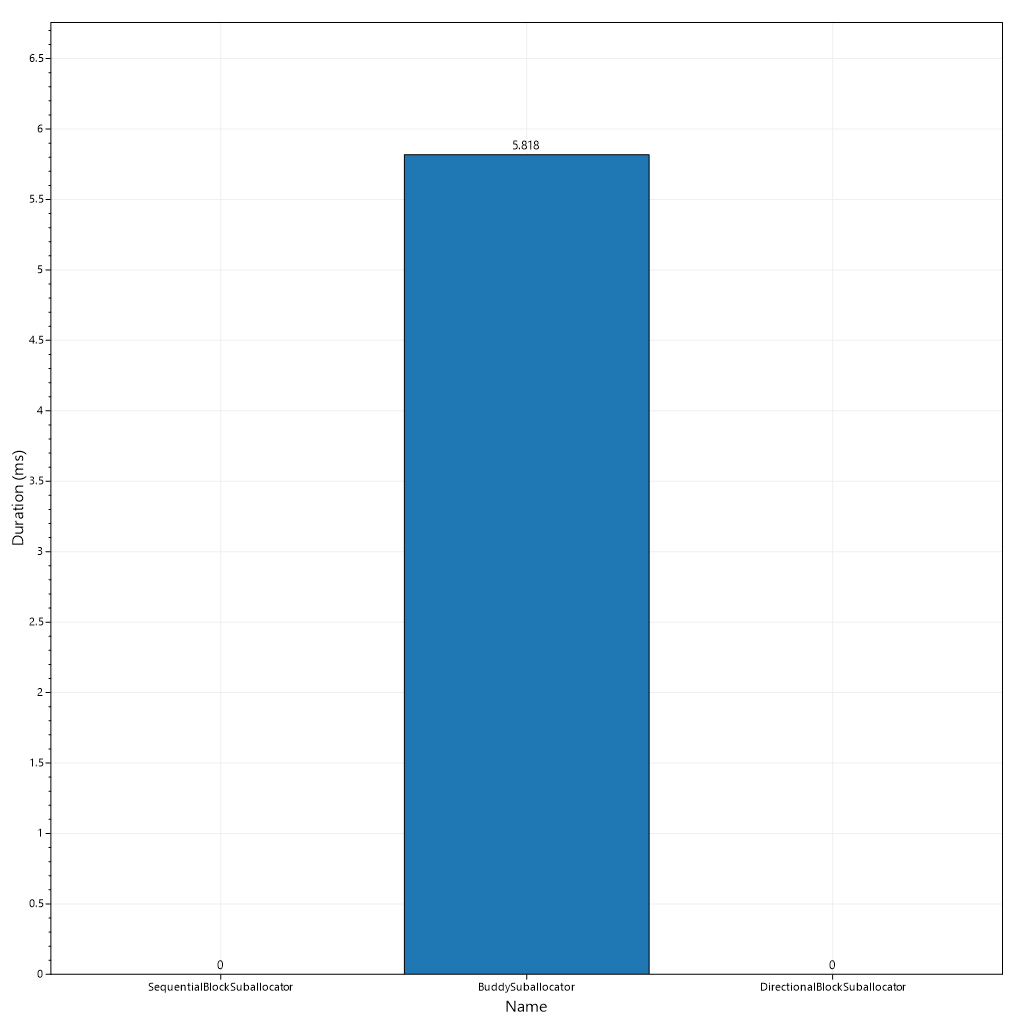
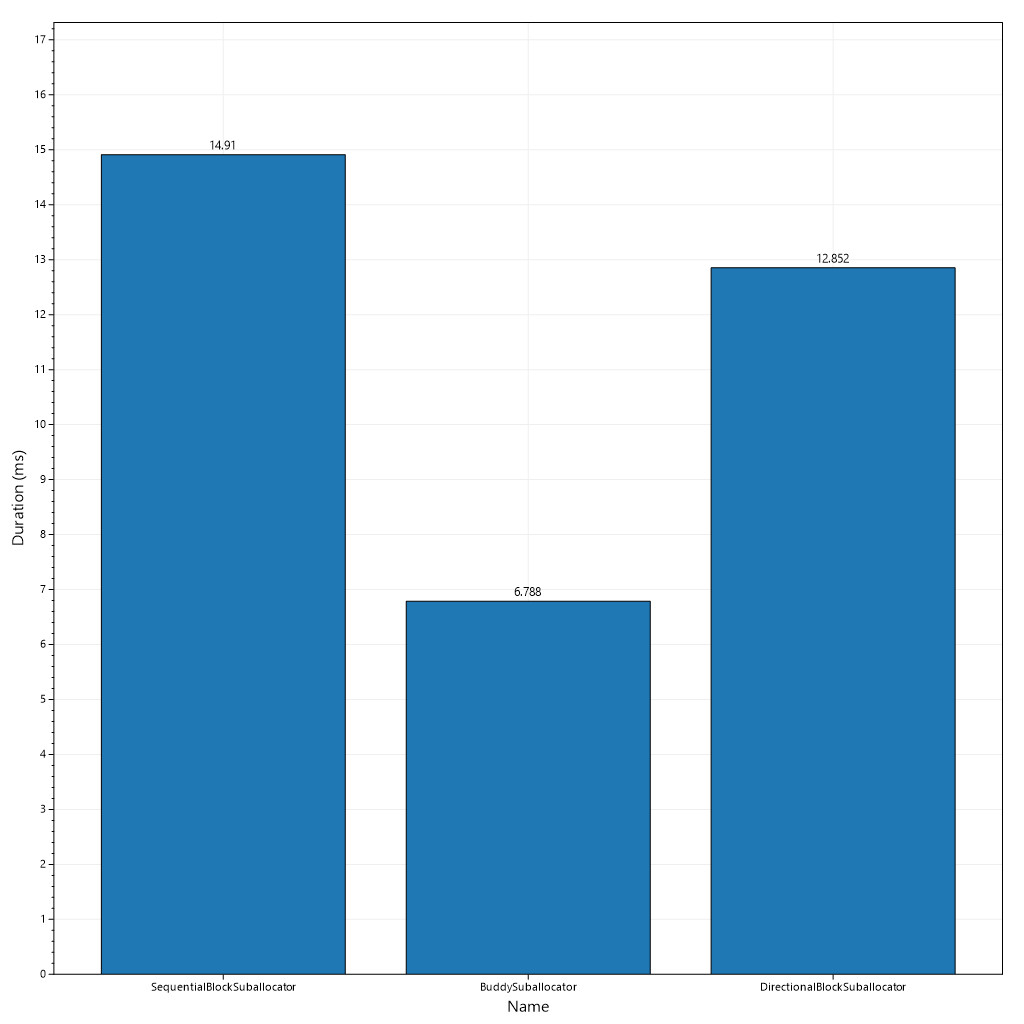
memorypressure

diff --git a/Suballocation/Suballocators/BuddySuballocator.cs b/Suballocation/Suballocators/BuddySuballocator.cs
@@ -47,8 +47,6 @@ public unsafe class BuddySuballocator<TSeg, TTag> : ISuballocator<TSeg, TTag>, I
     private long _freeBlockIndexesFlags;
     private long[] _freeBlockIndexesStart = null!;
     private bool _disposed;
-    private delegate bool TryReturnDelegate(NativeMemorySegment<TSeg, TTag> segment);
-    private TryReturnDelegate _tryReturnDelegate;
 
     /// <summary>Creates a BuddyAllocator instance and allocates a buffer of the specified length.</summary>
     /// <param name="length">Element length of the buffer to allocate.</param>
@@ -64,6 +62,7 @@ public unsafe class BuddySuballocator<TSeg, TTag> : ISuballocator<TSeg, TTag>, I
         _privatelyOwned = true;
         
         _pElems = (TSeg*)NativeMemory.Alloc((nuint)length, (nuint)Unsafe.SizeOf<TSeg>());
+        GC.AddMemoryPressure(length * Unsafe.SizeOf<TSeg>());
 
         Init(minBlockLength);
     }
@@ -410,6 +409,7 @@ public unsafe class BuddySuballocator<TSeg, TTag> : ISuballocator<TSeg, TTag>, I
             if (_privatelyOwned)
             {
                 NativeMemory.Free(_pElems);
+                GC.RemoveMemoryPressure(Length * Unsafe.SizeOf<TSeg>());
             }
 
             _disposed = true;

diff --git a/Suballocation/Suballocators/DirectionalBlockSuballocator.cs b/Suballocation/Suballocators/DirectionalBlockSuballocator.cs
@@ -46,6 +46,7 @@ public unsafe class DirectionalBlockSuballocator<TSeg, TTag> : ISuballocator<TSe
         if (length % blockLength > 0) _blockCount++;
         _index = new BigArray<IndexEntry>(_blockCount);
         _pElems = (TSeg*)NativeMemory.Alloc((nuint)length, (nuint)Unsafe.SizeOf<TSeg>());
+        GC.AddMemoryPressure(length * Unsafe.SizeOf<TSeg>());
         _privatelyOwned = true;
 
         InitIndexes();
@@ -472,6 +473,7 @@ public unsafe class DirectionalBlockSuballocator<TSeg, TTag> : ISuballocator<TSe
             if (_privatelyOwned)
             {
                 NativeMemory.Free(_pElems);
+                GC.RemoveMemoryPressure(Length * Unsafe.SizeOf<TSeg>());
             }
 
             _disposed = true;

diff --git a/Suballocation/Suballocators/SequentialBlockSuballocator.cs b/Suballocation/Suballocators/SequentialBlockSuballocator.cs
@@ -43,6 +43,7 @@ public unsafe class SequentialBlockSuballocator<TSeg, TTag> : ISuballocator<TSeg
         if (length % blockLength > 0) _blockCount++;
         _index = new BigArray<IndexEntry>(_blockCount);
         _pElems = (TSeg*)NativeMemory.Alloc((nuint)length, (nuint)Unsafe.SizeOf<TSeg>());
+        GC.AddMemoryPressure(length * Unsafe.SizeOf<TSeg>());
         _privatelyOwned = true;
 
         InitIndexes();
@@ -277,6 +278,7 @@ public unsafe class SequentialBlockSuballocator<TSeg, TTag> : ISuballocator<TSeg
             if (_privatelyOwned)
             {
                 NativeMemory.Free(_pElems);
+                GC.RemoveMemoryPressure(Length * Unsafe.SizeOf<TSeg>());
             }
 
             _disposed = true;

diff --git a/PerfTest/Program.cs b/PerfTest/Program.cs
@@ -101,7 +101,7 @@ public partial class Program
                             youthReturnFactor: .5,
                             updateWindowFillPercentage: .21,
                             updatesPerWindow: 10,
-                            defragment: false,
+                            defragment: true,
                             fragmentBucketLength: 65536))
                     .ToList();
 
